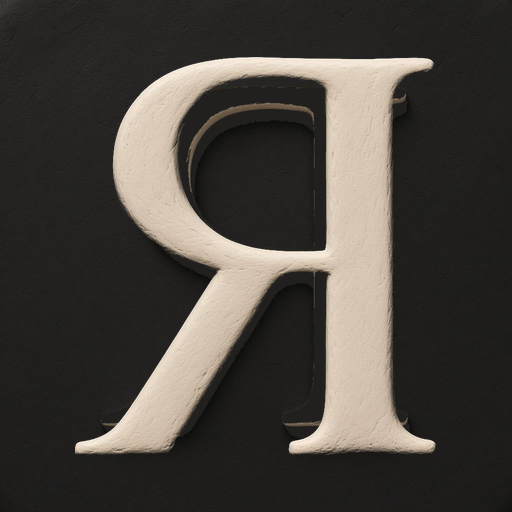
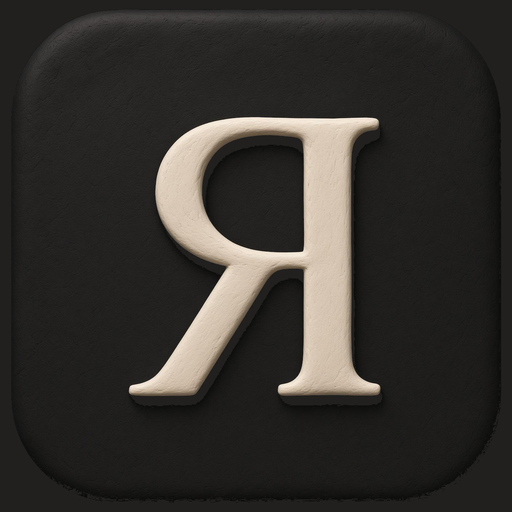
v0-50 clay Ya tile at source scale — full face, not cropped, not inset

diff --git a/index.html b/index.html
@@ -19,7 +19,7 @@
   <meta property="og:image" content="./logo.jpeg" />
   <meta name="twitter:card" content="summary" />
   <meta name="twitter:image" content="./logo.jpeg" />
-  <link rel="stylesheet" href="./styles.css?v=49" />
+  <link rel="stylesheet" href="./styles.css?v=50" />
 </head>
 <body>
   <div id="sa-top" class="sa-top" aria-hidden="true"></div>
@@ -127,6 +127,6 @@
       </div>
     </div>
   </aside>
-  <script src="./app.js?v=49"></script>
+  <script src="./app.js?v=50"></script>
 </body>
 </html>

diff --git a/web/index.html b/web/index.html
@@ -19,7 +19,7 @@
   <meta property="og:image" content="./logo.jpeg" />
   <meta name="twitter:card" content="summary" />
   <meta name="twitter:image" content="./logo.jpeg" />
-  <link rel="stylesheet" href="./styles.css?v=49" />
+  <link rel="stylesheet" href="./styles.css?v=50" />
 </head>
 <body>
   <div id="sa-top" class="sa-top" aria-hidden="true"></div>
@@ -127,6 +127,6 @@
       </div>
     </div>
   </aside>
-  <script src="./app.js?v=49"></script>
+  <script src="./app.js?v=50"></script>
 </body>
 </html>

diff --git a/sw.js b/sw.js
@@ -1,4 +1,4 @@
-const CACHE = "projectr-v0-49";
+const CACHE = "projectr-v0-50";
 const ASSETS = [
   "./",
   "./index.html",

diff --git a/web/sw.js b/web/sw.js
@@ -1,4 +1,4 @@
-const CACHE = "projectr-v0-49";
+const CACHE = "projectr-v0-50";
 const ASSETS = [
   "./",
   "./index.html",
